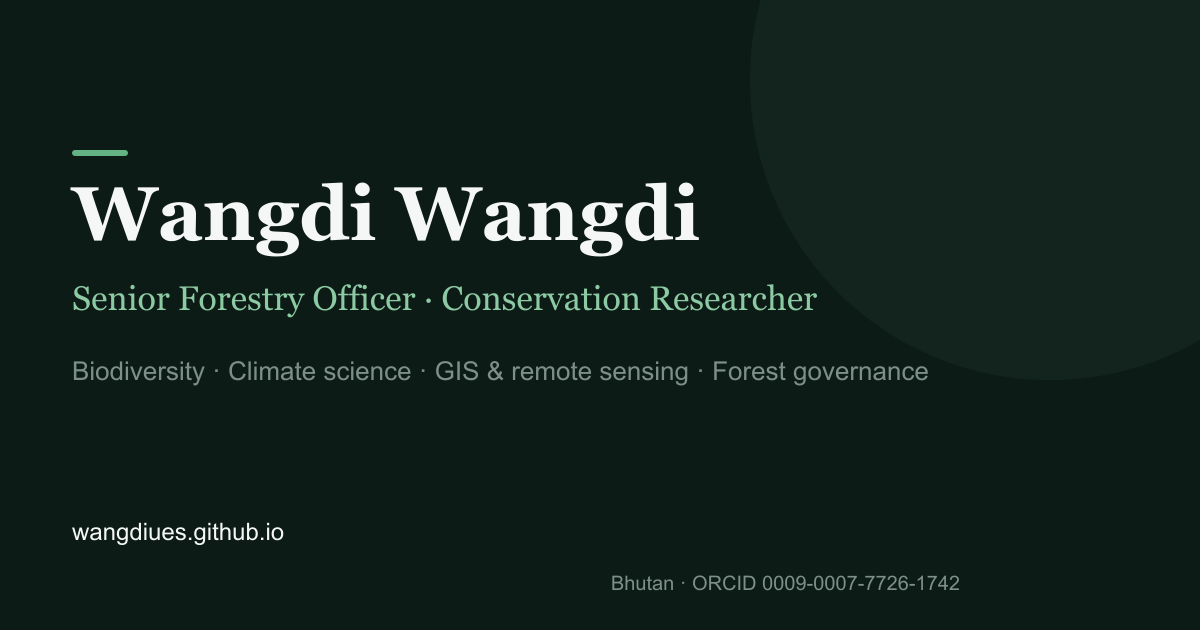
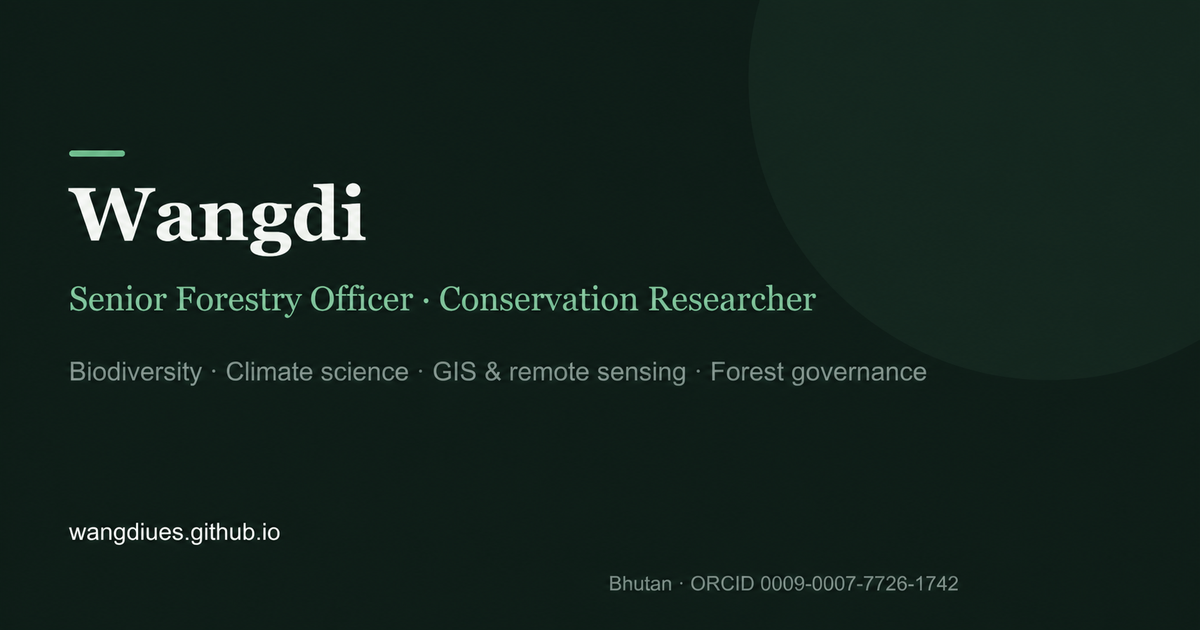
Align-portfolio-identity-with-2026-CV

diff --git a/src/pages/rss.xml.js b/src/pages/rss.xml.js
@@ -8,7 +8,7 @@ export async function GET(context) {
   );
 
   return rss({
-    title: "Wangdi Wangdi — Research outputs",
+    title: "Wangdi — Research outputs",
     description:
       "Publications, manuscripts, management plans, and conservation strategies from a Bhutanese forestry and conservation researcher.",
     site: context.site,

diff --git a/src/content/publications/fundamental-realized-habitat.md b/src/content/publications/fundamental-realized-habitat.md
@@ -4,7 +4,7 @@ status: "under-review"
 year: 2026
 date: 2026-04-17
 venue: "Venue to be confirmed (submitted)"
-authors: "Wangdi Wangdi, Tshering Dorji, Jigme Tenzin & Tashi Choden"
+authors: "Wangdi, Tshering Dorji, Jigme Tenzin & Tashi Choden"
 pdf: "/publications/fundamental-realized-habitat.pdf"
 rightsLicense: "Author-owned submitted manuscript (preprint)"
 rightsNote: "Current manuscript version identified from internal evidence; see docs/RIGHTS.md."

diff --git a/src/content/publications/forest-gradient-bhutan.md b/src/content/publications/forest-gradient-bhutan.md
@@ -4,7 +4,7 @@ status: "under-review"
 year: 2026
 date: 2026-04-15
 venue: "Forest Ecology and Management (submitted)"
-authors: "Wangdi Wangdi, Laxmi Sagar, Sangay Chedup, Sangay Dorjee & Tashi Waiba Norbu"
+authors: "Wangdi, Laxmi Sagar, Sangay Chedup, Sangay Dorjee & Tashi Waiba Norbu"
 pdf: "/publications/forest-gradient-bhutan-main.pdf"
 rightsLicense: "Author-owned submitted manuscript (preprint)"
 tags:

diff --git a/src/content/publications/ecosystem-integrity.md b/src/content/publications/ecosystem-integrity.md
@@ -4,7 +4,7 @@ status: "under-review"
 year: 2026
 date: 2026-04-06
 venue: "Ecology & Evolution (submitted)"
-authors: "Wangdi Wangdi & Tashi Choden"
+authors: "Wangdi & Tashi Choden"
 pdf: "/publications/ecosystem-integrity.pdf"
 rightsLicense: "Author-owned submitted manuscript (preprint)"
 tags:

diff --git a/src/content/case-studies/connected-skies-great-hornbills.md b/src/content/case-studies/connected-skies-great-hornbills.md
@@ -13,7 +13,7 @@ project:
   year: 2026
   role: Team Leader
   team:
-    - Wangdi Wangdi
+    - Wangdi
     - Sangay Chedup
     - Wangchuk Blon
     - Tashi Choden
